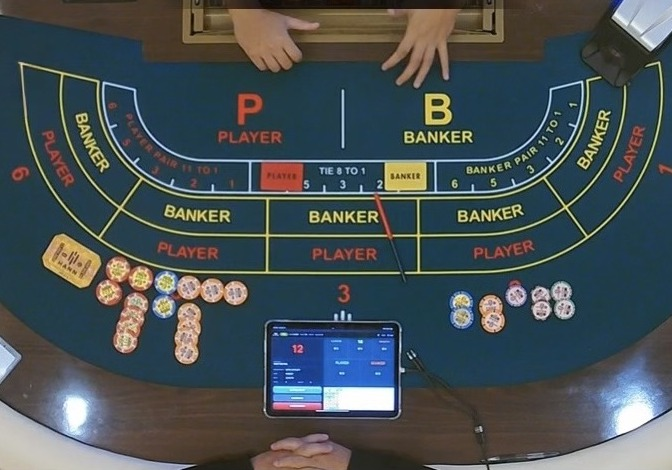
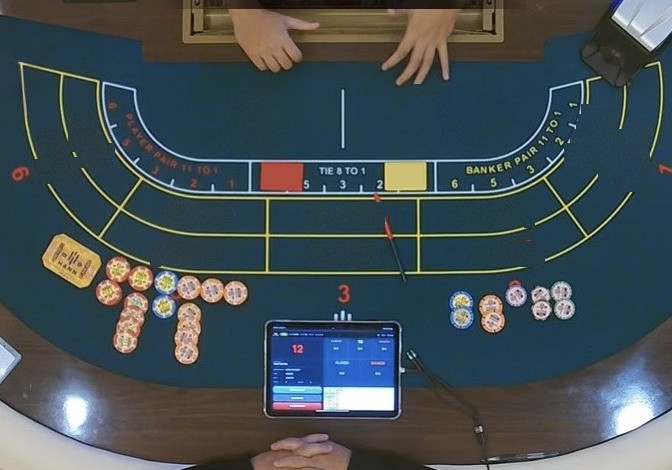
Deal the operator's own card faces, and clear the felt of its PLAYER/BANKER labels (#81)
* Revert "Give every table its own live still (#59)"

This reverts commit a8a42585bc950343c8f5936d34bf9c0f2972872b.

* Lay the table list out four to a row on the reference's proportions

Measured off the reference list: four cards to a row at 277px with 13px gutters,
and a thumbnail of 277x93 - a 3:1 strip across the felt, not the 16:10 frame the
cards were using. The grid's columns are set to four rather than auto-filled to
whatever the width allows, so the row count matches at any width instead of
drifting with the viewport. Phones keep their two-up grid.

Claude-Session: https://claude.ai/code/session_01Cibp3ojWHju3i3HJBAp2uv

* Lay the phone table screen out the way the reference app draws it

Video, then a slim strip carrying the P/B/T counts and the two legend pills, then
the roads with the Bead Plate as its own narrow card beside them, then the betting
board with the chips at the foot of the page. Before this the phone stacked four
six-deep boards down the page under the betting board, running the results to
629px; the reference keeps its whole board inside about a finger's width by
setting the three derived roads side by side under the Big Road, which is what
this does.

No markup changes: display:contents dissolves the tally and road panels on the
phone so their parts - the counts, the Bead Plate, the legend rail - land on the
results grid directly, and the pieces that are still cards carry the paper
background themselves. Desktop is untouched.
[…]

diff --git a/shared/game-ui.css b/shared/game-ui.css
@@ -77,7 +77,7 @@
    measure 277x93, so the still is cropped to a 3:1 band. */
 .lobby-card .thumb{
   aspect-ratio:3/1;position:relative;overflow:hidden;
-  background:url('assets/table-live.jpg') center/cover no-repeat;
+  background:url('assets/table-live.jpg?v=2') center/cover no-repeat;
 }
 @keyframes pulseDot{0%,100%{opacity:1;}50%{opacity:.3;}}
 .card-favorite{margin-left:auto;width:24px;height:24px;border-radius:50%;background:none;border:none;color:var(--ink-faint);display:flex;align-items:center;justify-content:center;flex-shrink:0;}
@@ -154,7 +154,7 @@
   position:absolute;inset:0;display:flex;align-items:center;justify-content:center;
   background:
     linear-gradient(rgba(0,0,0,.08), rgba(0,0,0,.26)),
-    url('assets/table-live.jpg') center/cover no-repeat;
+    url('assets/table-live.jpg?v=2') center/cover no-repeat;
 }
 .sd-stage-top{position:absolute;top:14px;left:56px;right:64px;display:flex;align-items:center;gap:10px;z-index:2;flex-wrap:wrap;}
 .sd-type-badge{background:rgba(4,20,30,.7);backdrop-filter:blur(4px);border:1px solid #3fd0e8;color:#3fd0e8;border-radius:14px;padding:5px 16px;font-weight:800;font-size:11.5px;letter-spacing:1px;flex-shrink:0;}
@@ -167,21 +167,18 @@
 .hand.player .side-label{color:#7FBFEA;text-shadow:0 0 10px rgba(127,191,234,.35);}
 .hand.banker .side-label{color:#E89286;text-shadow:0 0 10px rgba(232,146,134,.35);}
 .hand .cards{display:flex;gap:5px;min-height:76px;}
+/* The card is a face from shared/assets/cards, set on the element rather than drawn in CSS, so
+   it keeps the deck's own artwork - rank, pip and rounded corners all come from the file. Its
+   height is what sizes it; the width follows the artwork's own 110x140. The shadow is a
+   drop-shadow rather than a box-shadow so it follows the rounded corners instead of squaring
+   them off. */
 .playing-card{
-  width:44px;height:64px;background:linear-gradient(155deg,#fff,#f2f2ef);border-radius:6px;position:relative;
-  display:flex;align-items:center;justify-content:center;font-weight:800;font-size:17px;
-  box-shadow:0 6px 14px -4px rgba(0,0,0,.55), 0 1px 0 rgba(255,255,255,.6) inset;
-  border:1px solid rgba(0,0,0,.06);
+  height:64px;aspect-ratio:110/140;position:relative;
+  background:center/contain no-repeat;
+  filter:drop-shadow(0 5px 9px rgba(0,0,0,.5));
   animation:dealCard .38s cubic-bezier(.2,.7,.3,1.1);
   transform-style:preserve-3d;
 }
-.playing-card::before,.playing-card::after{
-  content:attr(data-rank);position:absolute;font-size:9.5px;font-weight:800;line-height:1;
-}
-.playing-card::before{top:4px;left:5px;}
-.playing-card::after{bottom:4px;right:5px;transform:rotate(180deg);}
-.playing-card.red{color:#c0392b;}
-.playing-card.black{color:#181818;}
 @keyframes dealCard{
   from{transform:translateY(-30px) translateX(10px) rotate(-8deg) rotateY(90deg) scale(.7);opacity:0;}
   to{transform:none;opacity:1;}
@@ -190,7 +187,7 @@
    it leaves its layout box upright, so the margin gives back the (64-44)/2 it now overhangs at
    each side, and it needs its own keyframes - the deal animation ends at transform:none, which
    would drop the rotation on the last frame. */
-.playing-card.third{transform:rotate(90deg);margin:0 10px;animation-name:dealCardSideways;}
+.playing-card.third{transform:rotate(90deg);margin:0 7px;animation-name:dealCardSideways;}
 /* The player's hand sits on the left of the felt, so its third card is laid on the outside -
    to the left of the pair, mirroring the banker's, which stays on the right. It is dealt last,
    so the order moves it without touching the deal sequence. */
@@ -399,8 +396,8 @@
   .card-hot{font-size:9px;}
 
   .cards-area{gap:22px;}
-  .playing-card{width:36px;height:52px;font-size:14px;}
-  .playing-card.third{margin:0 8px;}
+  .playing-card{height:52px;}
+  .playing-card.third{margin:0 6px;}
   .hand .score{min-width:28px;height:28px;font-size:15px;}
   .bet-rail{gap:8px;}
   .bet-rail.with-pairs{grid-template-columns:1fr 1.15fr 1fr;}

diff --git a/avatar/app.js b/avatar/app.js
@@ -803,11 +803,18 @@ async function beginAvatarDealingPhase(){
   AVATAR._sim = simulateRound();
   await revealAvatarCards(AVATAR._sim);
 }
+/* The deck is a set of card faces rather than a drawn one: shared/assets/cards/<suit><rank>.png,
+   suit as its initial and rank lowercased, so the seven of spades is s7 and the ace of hearts ha.
+   card_back.png rides along with them for a face-down card. */
+const CARD_SUIT_FILE = {'\u2660':'s', '\u2665':'h', '\u2666':'d', '\u2663':'c'};
+function cardFaceUrl(card){
+  return `../shared/assets/cards/${CARD_SUIT_FILE[card.suit]}${String(card.rank).toLowerCase()}.png`;
+}
 function cardHtml(card, index){
   const red = card.suit==='♥' || card.suit==='♦';
   // the third card of a hand goes down sideways, as it is dealt
   const third = index===2 ? ' third' : '';
-  return `<div class="playing-card ${red?'red':'black'}${third}" data-rank="${card.rank}${card.suit}">${card.suit}</div>`;
+  return `<div class="playing-card ${red?'red':'black'}${third}" data-rank="${card.rank}${card.suit}" style="background-image:url('${cardFaceUrl(card)}')"></div>`;
 }
 async function revealAvatarCards(sim){
   const pEl = document.getElementById('playerCardsAvatar'), bEl = document.getElementById('bankerCardsAvatar');
